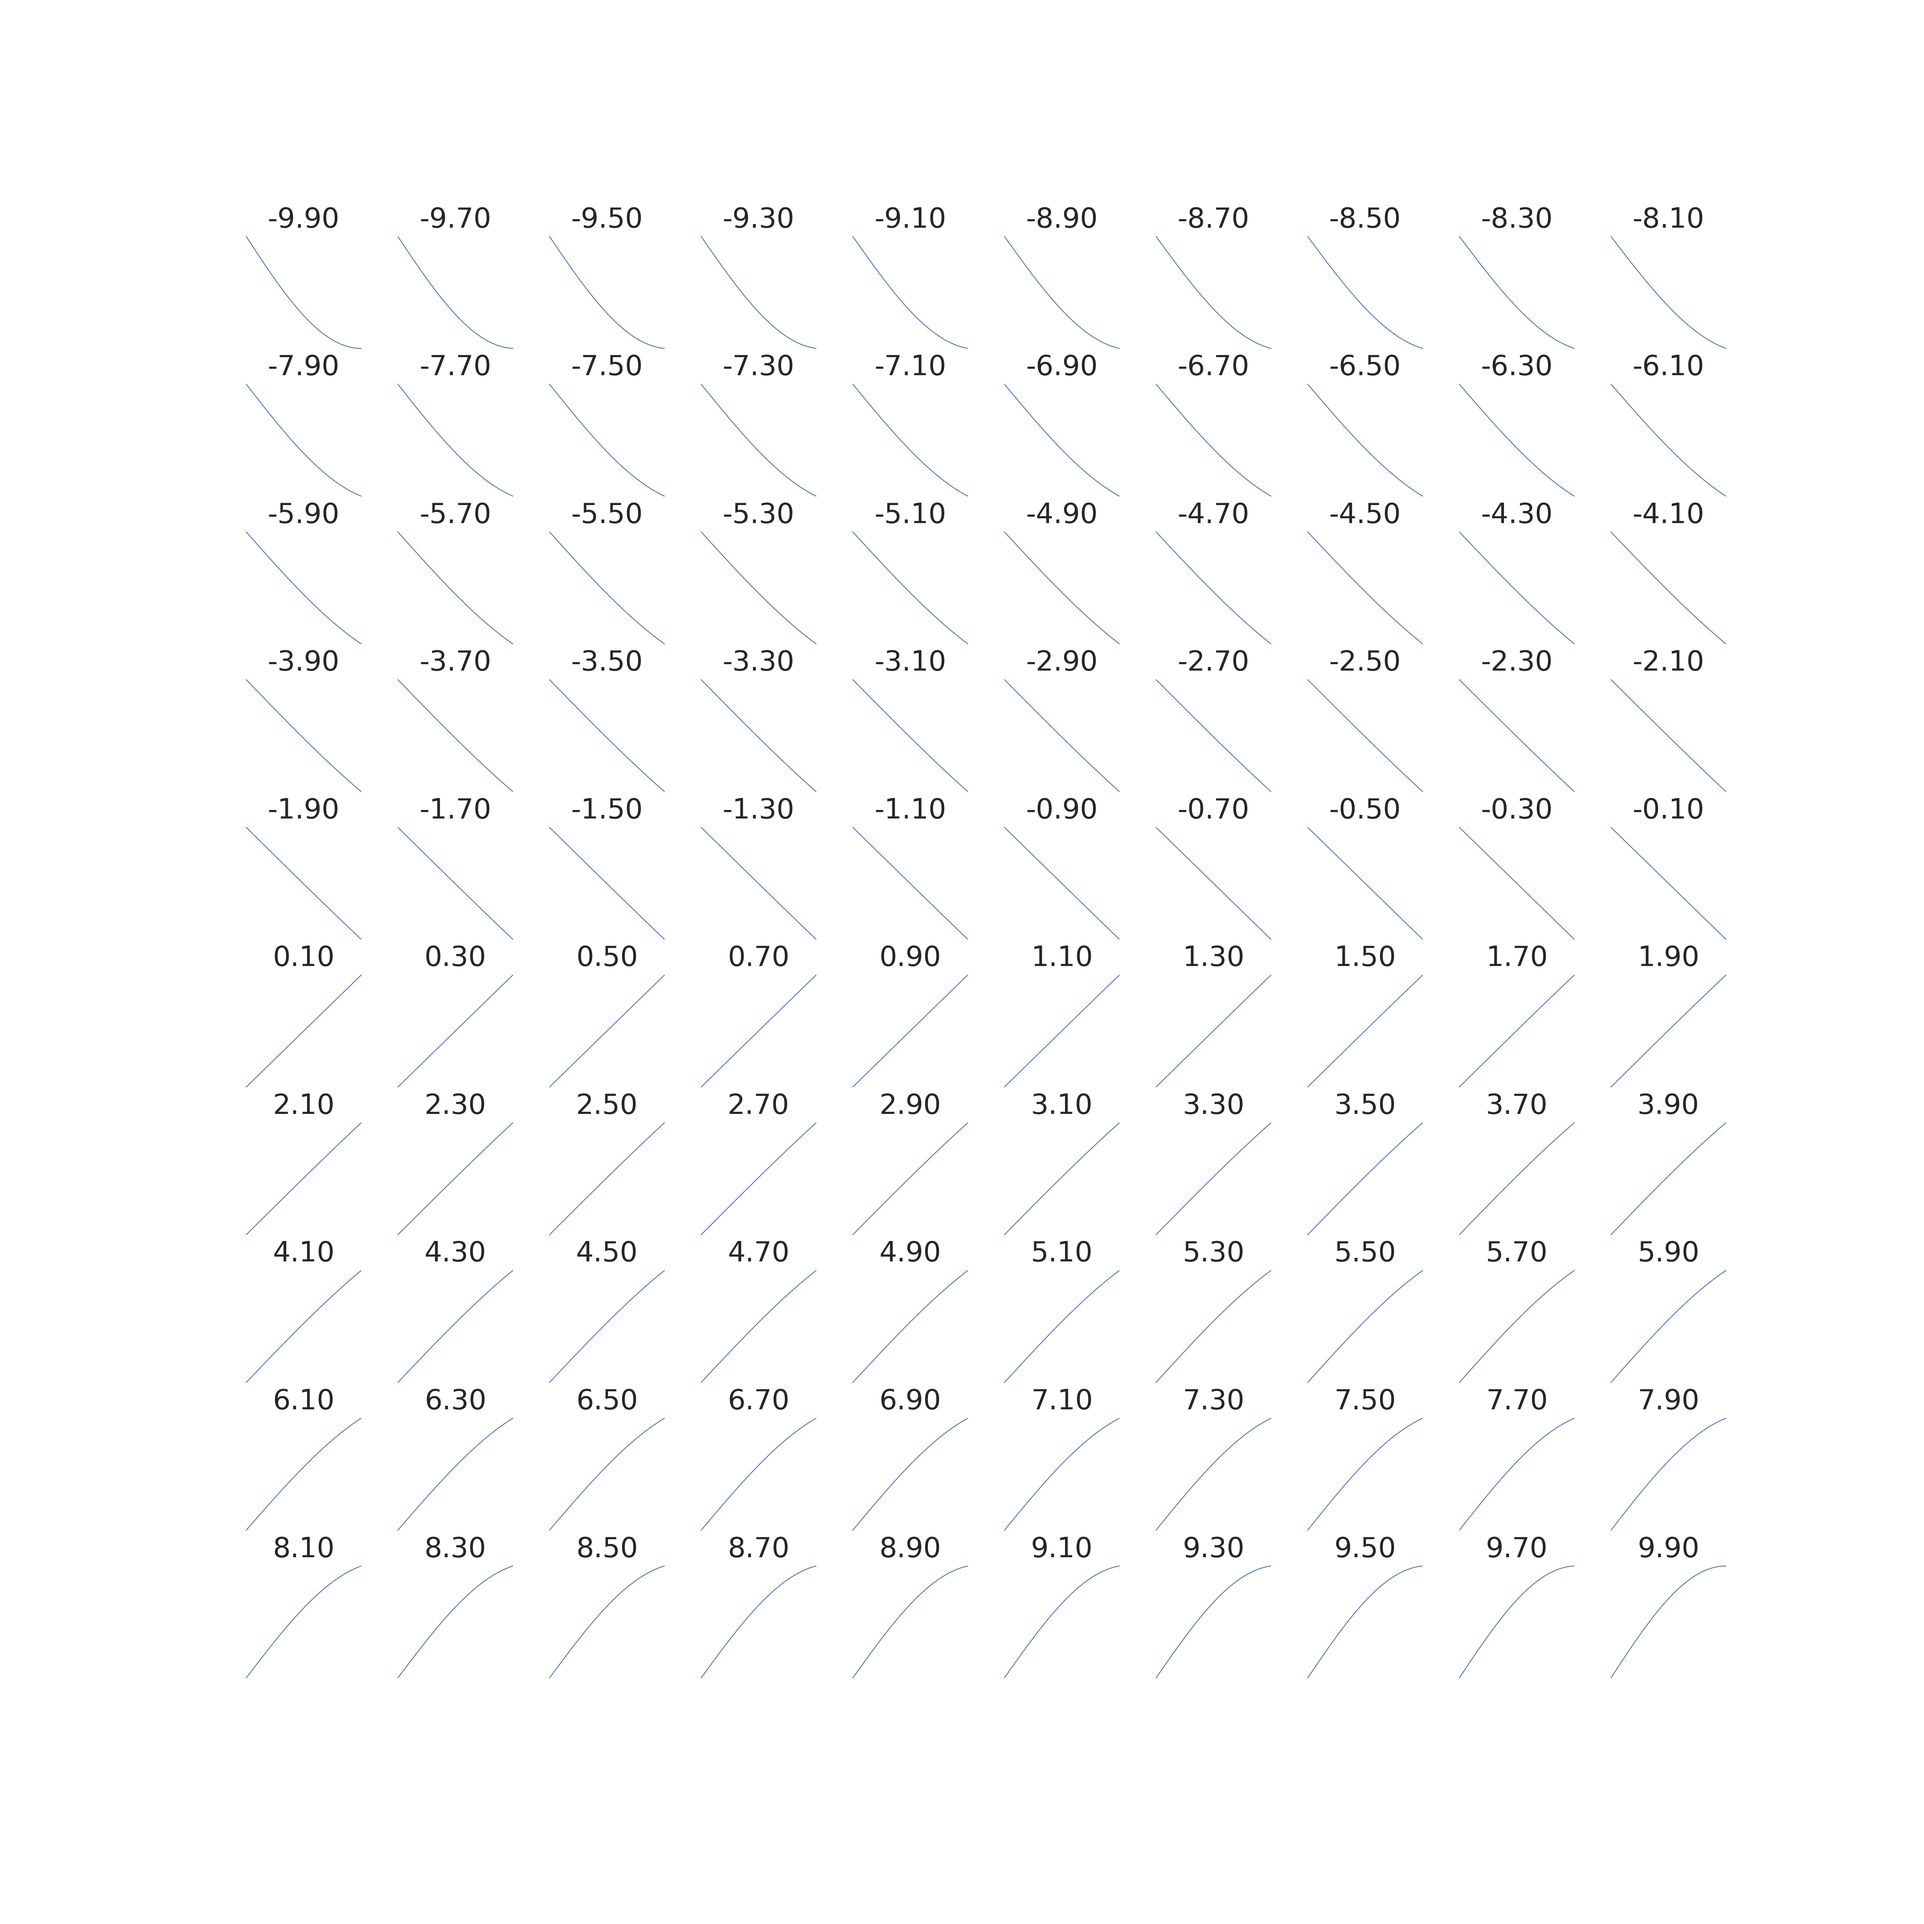
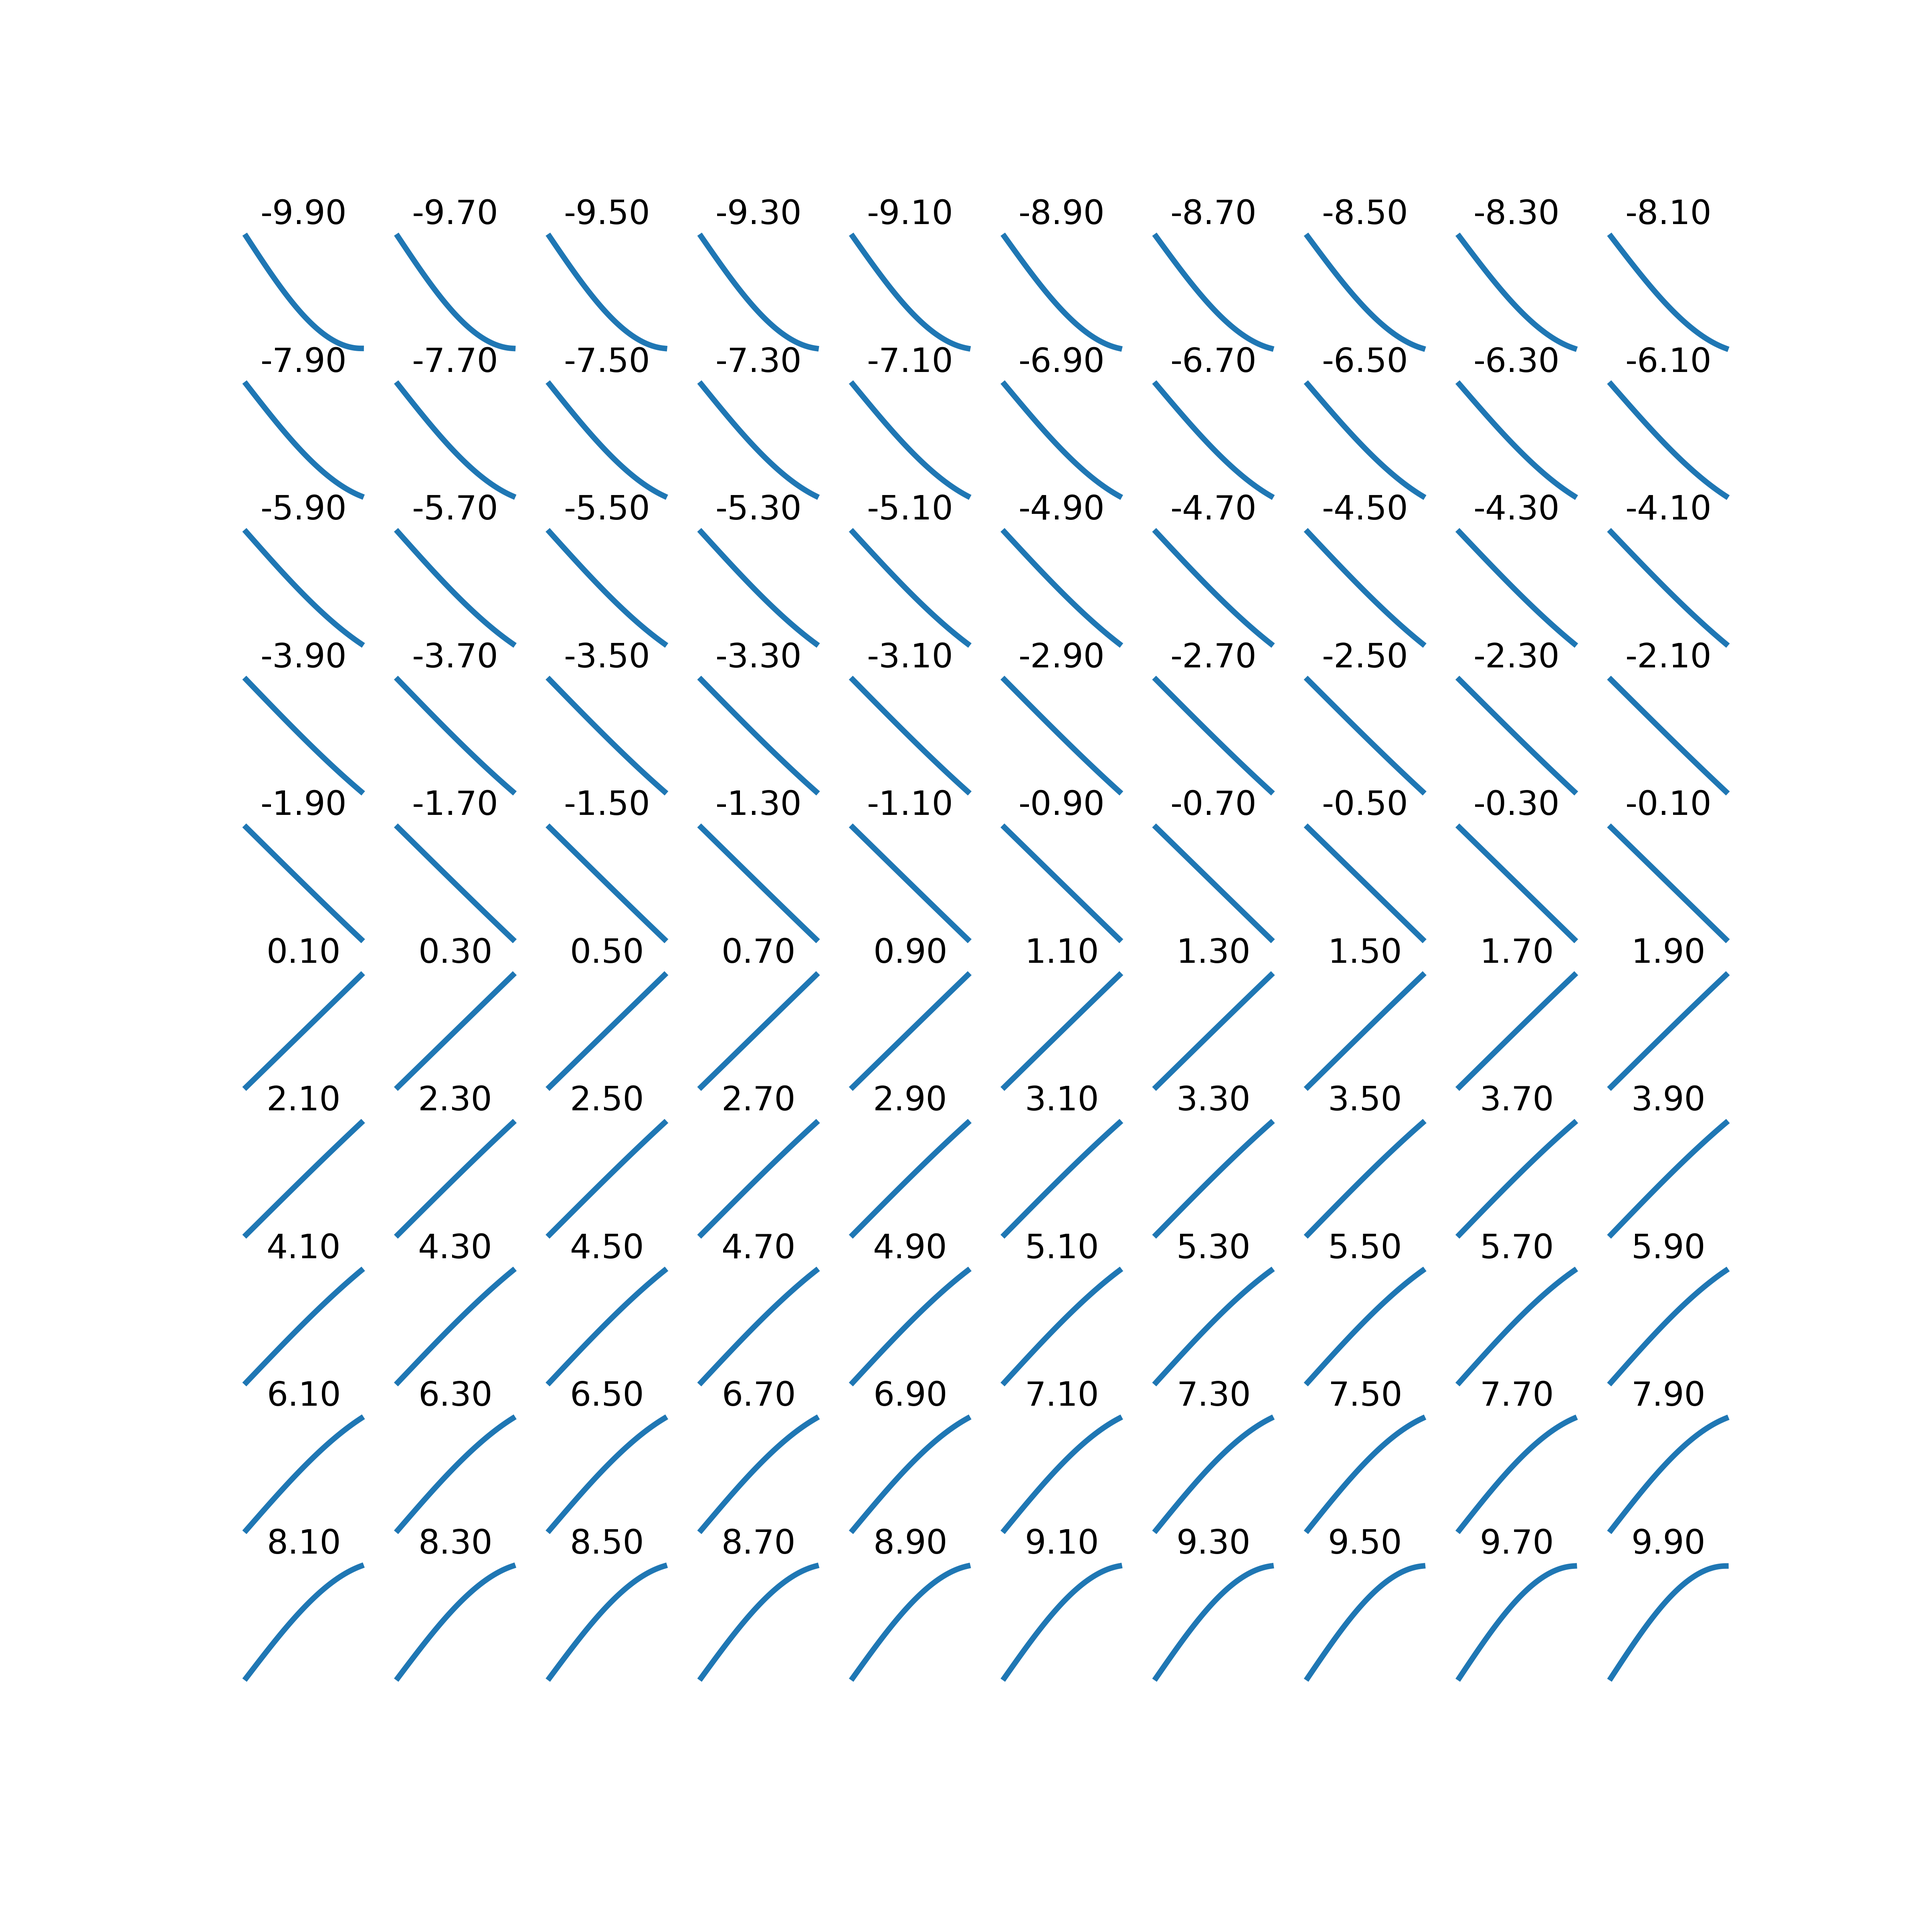
5

diff --git a/EDisease_utils.py b/EDisease_utils.py
@@ -97,9 +97,9 @@ def draw_test():
         xi = p%10
         yi = int(p/10)
         ax = plt.subplot2grid((10,10),(yi,xi))
-        ax.plot(value)
+        ax.plot(value,linewidth=10)
         ax.axis('off')
-        plt.title(f'{0.2*(p-49.5):.2f}',fontsize=50)
+        plt.title(f'{0.2*(p-49.5):.2f}',fontsize=60)
         
     plt.savefig('./Spectrum_test_pi_final.png')    
 
@@ -160,9 +160,9 @@ def draw_time():
         xi = p%10
         yi = int(p/10)
         ax = plt.subplot2grid((10,10),(yi,xi))
-        ax.plot(value)
+        ax.plot(value,linewidth=10)
         ax.axis('off')
-        plt.title(f'{0.05*p:.1f}',fontsize=50)
+        plt.title(f'{0.05*p:.1f}',fontsize=60)
         
     plt.savefig('./Spectrum_time_pi_final.png')  
     
